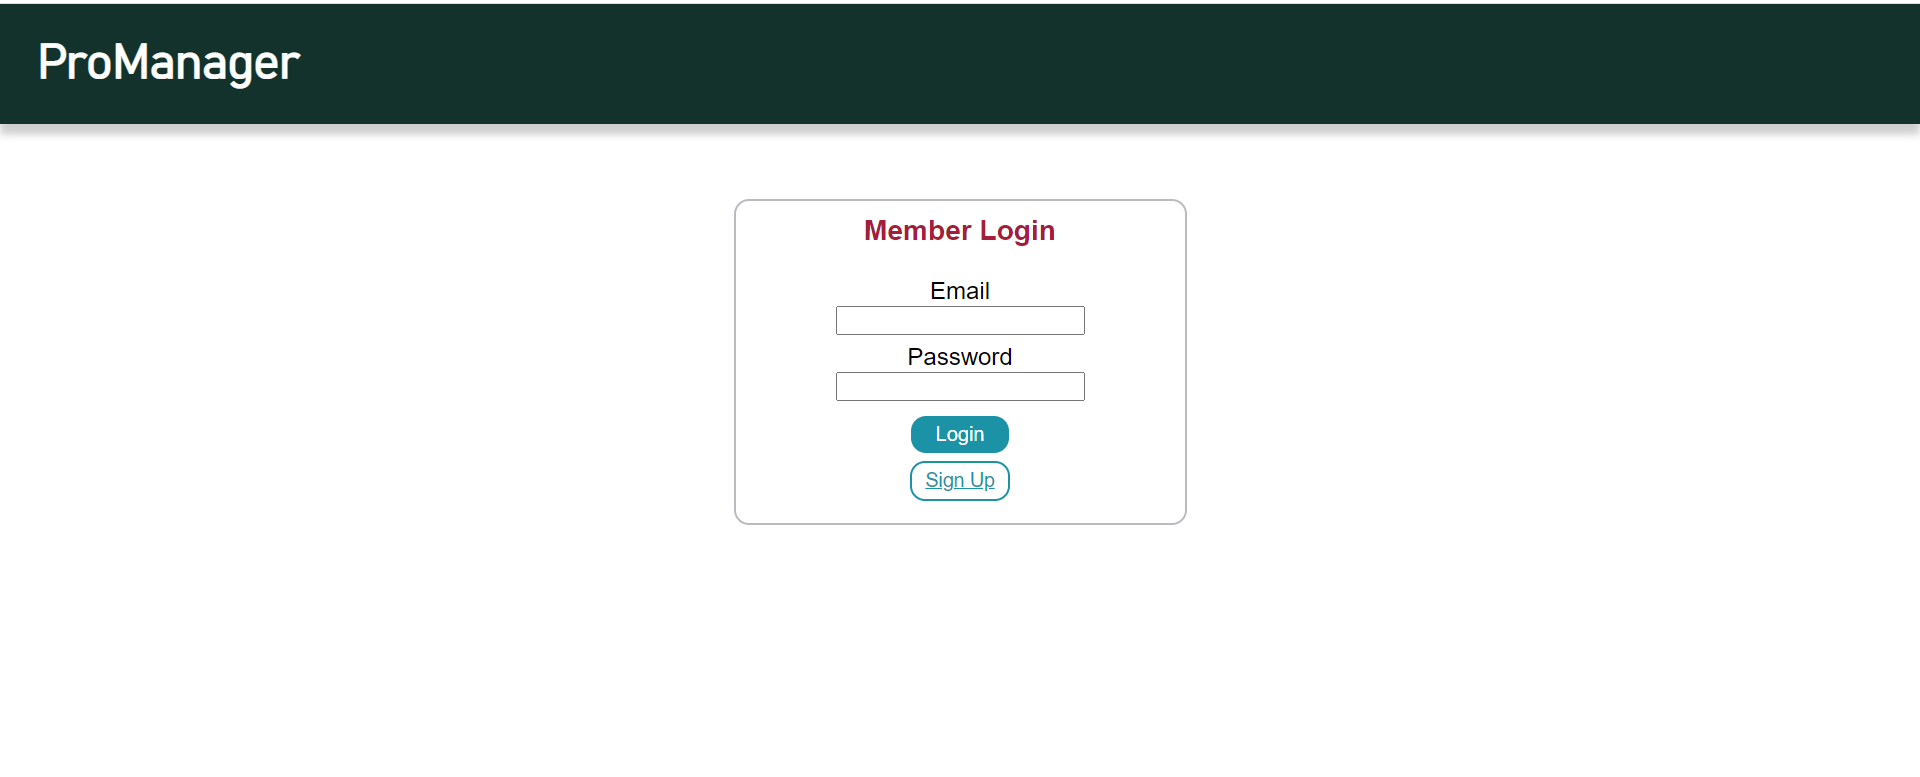
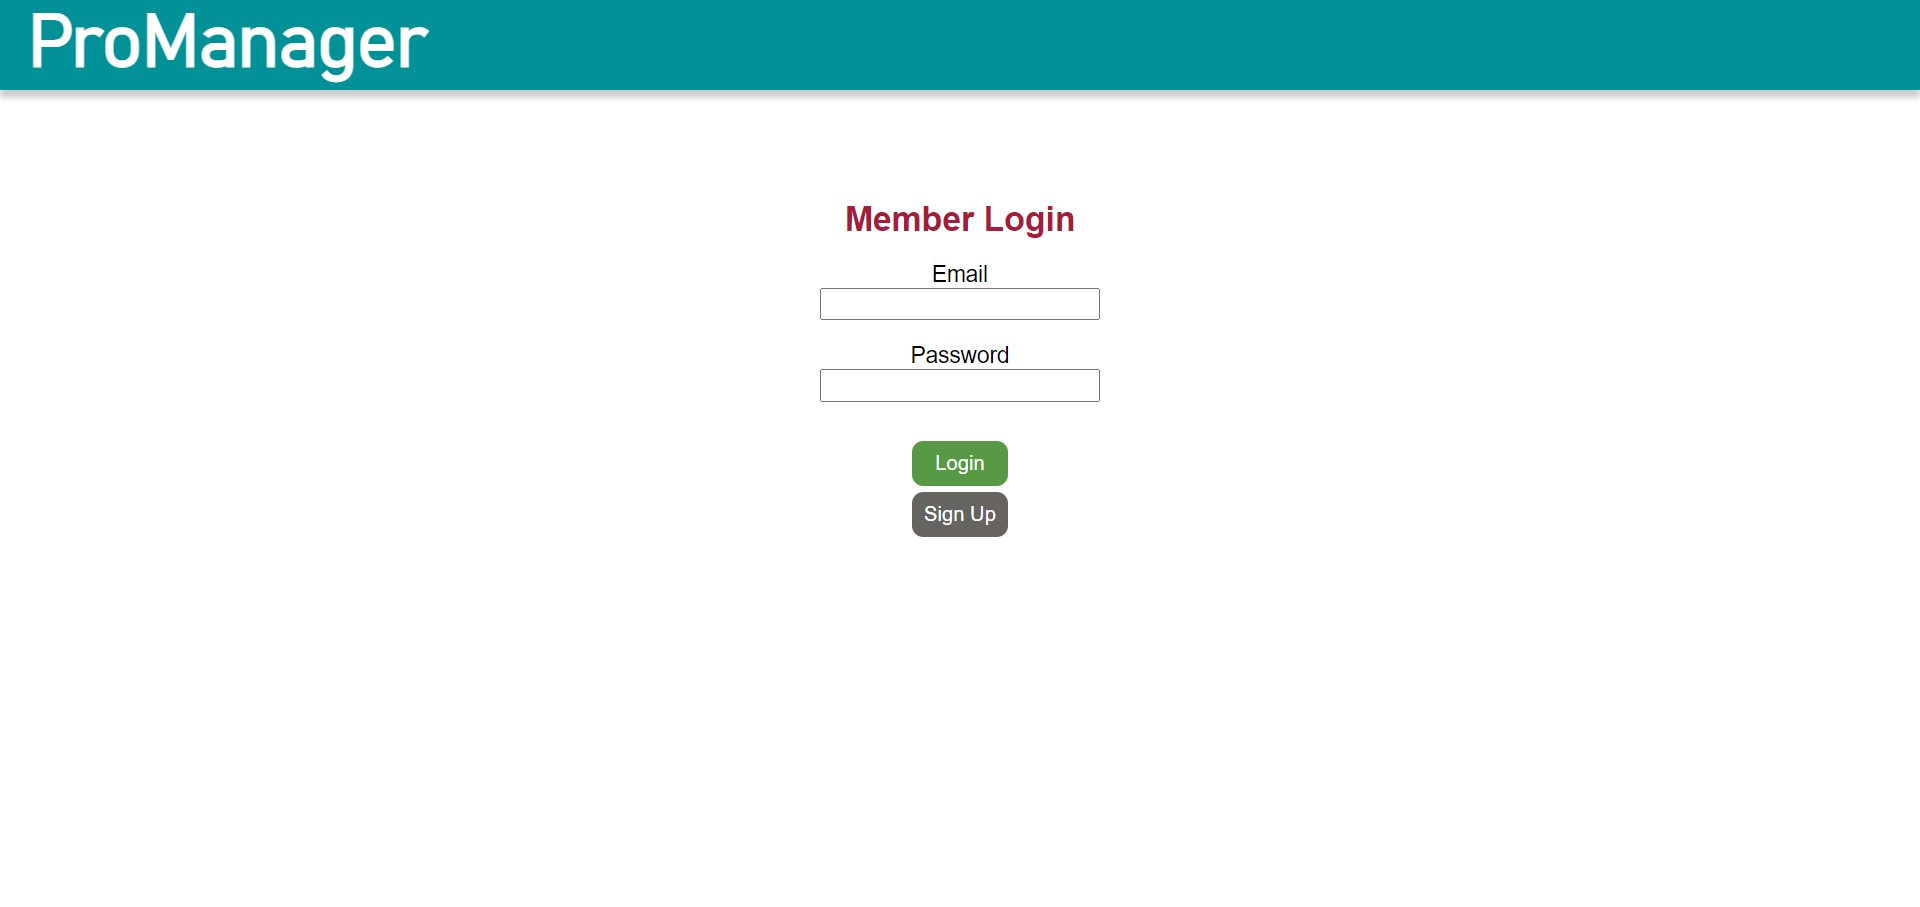
edited CSS file to change the log/reg form layouts

diff --git a/Java_Stack/Java_Spring/ProjectManager/projectmanager/src/main/resources/static/css/login.css b/Java_Stack/Java_Spring/ProjectManager/projectmanager/src/main/resources/static/css/login.css
@@ -29,8 +29,7 @@ h1 {
     align-items: center; 
     text-align:center;
     font-family: "Proxima Nova Soft", "Helvetica Neue", sans-serif;
-    border: 1px solid rgb(185,187,190);
-    border-radius: 10px;
+	border-radius: 10px;
     margin: auto;
     width: 300px;
     height: 215px;
@@ -41,8 +40,6 @@ h1 {
     align-items: center; 
     text-align:center;
     font-family: "Proxima Nova Soft", "Helvetica Neue", sans-serif;
-    border: 1px solid rgb(185,187,190);
-    border-radius: 10px;
     margin: auto;
     width: 300px;
     height: 340px;
@@ -53,23 +50,34 @@ h1 {
 }
 
 .form p, .regform p {
-	margin-bottom: 5px;
+	margin-top: 5px;
+	margin-bottom: 20px;
+	font-size: 20px;
 }
+
 
 
 h3 {
 	margin-bottom: 20px;
+	margin-top: 200px;
 	color: rgb(166,28,59);
+	font-size:30px;
 }
 
 .form input[type=submit] , .regform input[type=submit] {
-	background-color: rgb(28,146,167);
-	color: white;
-	width: 65px;
+	background-color: rgb(88,153,70);
+    width: 85px;
+    height: 40px;
+    font-size: 18px;
+    color: white;
+    border-radius: 10px;
+    border: none;
+    margin-top: 15px;
+}
+
+.form p input[type=text], .form p input[type=password], .regform p input[type=text], .regform p input[type=password], .regform p input[type=email] {
+	width: 245px;
 	height: 25px;
-	border-radius: 10px;
-	margin: 5px;
-	border:none;
 }
 
 #errors {
@@ -81,15 +89,16 @@ h3 {
 }
 
 #registerLink, #cancelLink {
-	background-color: white;
-	color: rgb(28,146,167);
-	width: 65px;
-	height: 25px;
+	background-color: rgb(101,100,96);
+	color: white;
+	width: 85px;
+	height: 40px;
 	border-radius: 10px;
-	border: 1px solid rgb(28,146,167);
+	border: none;
 	display: block;
-	font-size: 13px;
-	line-height: 25px;
+	font-size: 18px;
+	text-decoration:none;
+	line-height: 40px;
 	margin: auto;
 }
 
